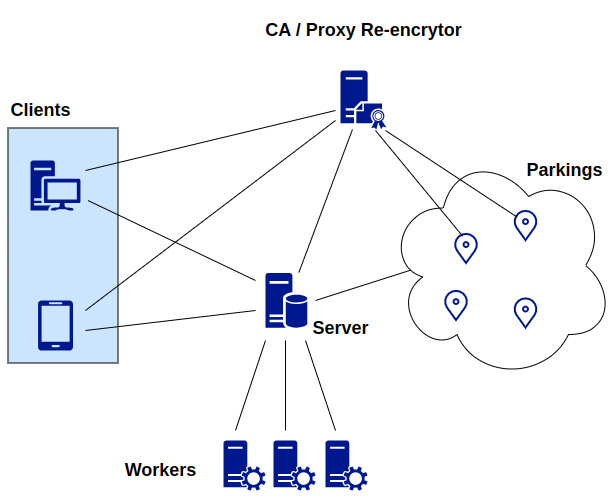
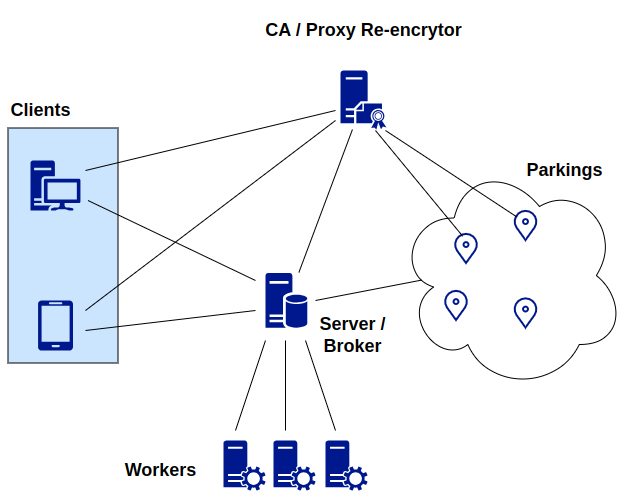
fix architecture scheme

diff --git a/tesi/chapters/3-system-architecture.tex b/tesi/chapters/3-system-architecture.tex
@@ -27,7 +27,7 @@ Homomorphic encryption incurs high computational costs, so the system optimizes 
 \section{Actors}
 
 \subsection{Location Data Source}
-The Location Data Source (LDS), commonly referred to as sensors or parkings, are responsible for collecting and publishing location data. In our system, we assume they independently publish their data to the broker, based on the event they register. For instance, if a sensor detects a free parking spot, it publishes the information to the broker, that will start the encryption protocol. This happens also when a parking spot is occupied, allowing the system to keep track of the available parking spots in real-time.
+The Location Data Source (LDS), commonly referred to as sensors or parkings, are responsible for collecting and publishing location data. In our system, we assume they independently publish their data to the server, based on the event they register. For instance, if a sensor detects a free parking spot, it publishes the information to the broker, that will start the encryption protocol. This happens also when a parking spot is occupied, allowing the system to keep track of the available parking spots in real-time.
 
 Note that by maintaining the availability of the parking spots, independent from the clients, we can ensure that the system is able to provide privacy-preserving updates to the server. Conversely, if the clients were also responsible for reserving the parking spots, they would need to expose their positions to the server, which would compromise the privacy of the system.
 
